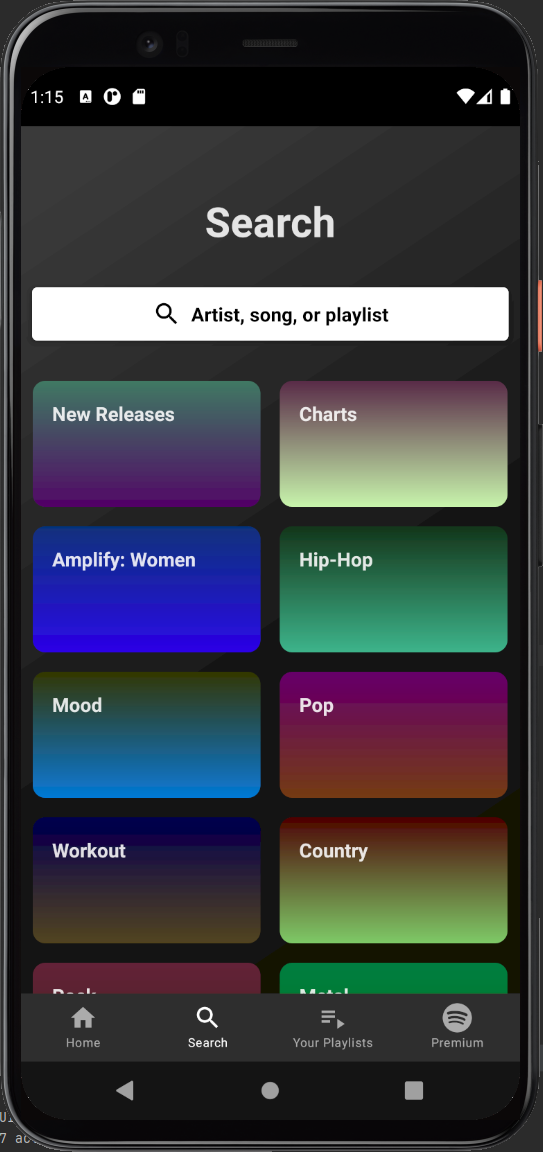
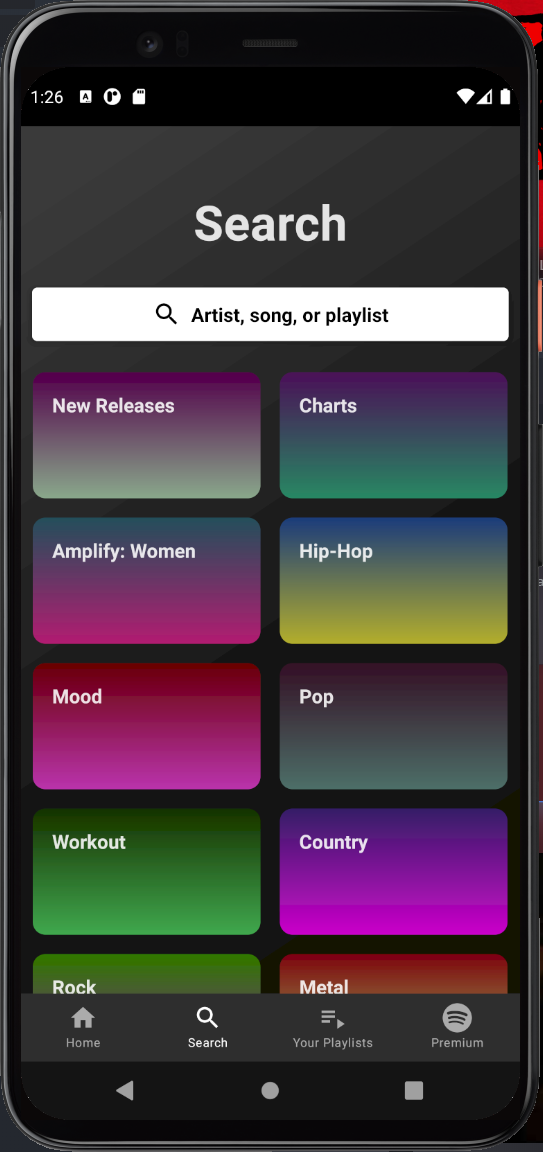
Improved search header text size

diff --git a/app/src/main/java/com/kobeissidev/jetpackcomposespotifyui/screen/search/sections/SearchHeaderSection.kt b/app/src/main/java/com/kobeissidev/jetpackcomposespotifyui/screen/search/sections/SearchHeaderSection.kt
@@ -21,6 +21,7 @@ import androidx.compose.ui.graphics.Color
 import androidx.compose.ui.res.stringResource
 import androidx.compose.ui.text.font.FontWeight
 import androidx.compose.ui.unit.dp
+import androidx.compose.ui.unit.sp
 import com.kobeissidev.jetpackcomposespotifyui.R
 import com.kobeissidev.jetpackcomposespotifyui.composable.CenteredTitleHeader
 
@@ -30,7 +31,7 @@ fun SearchHeaderSection() {
         verticalAlignment = Alignment.CenterVertically,
         modifier = Modifier
             .fillMaxWidth()
-            .height(200.dp)
+            .fillMaxHeight(0.25f)
             .padding(all = 1.dp)
     ) {
         Column(
@@ -40,16 +41,17 @@ fun SearchHeaderSection() {
         ) {
             CenteredTitleHeader(
                 id = R.string.search,
-                style = MaterialTheme.typography.h4.copy(fontWeight = FontWeight.Bold),
-                modifier = Modifier
-                    .fillMaxWidth()
-                    .padding(top = 32.dp)
+                style = MaterialTheme.typography.h4.copy(
+                    fontWeight = FontWeight.Bold,
+                    fontSize = 40.sp
+                ),
+                modifier = Modifier.padding(top = 36.dp)
             )
             SearchBar(
                 hint = stringResource(id = R.string.search_placeholder),
                 modifier = Modifier
                     .fillMaxWidth(0.96f)
-                    .padding(top = 32.dp)
+                    .padding(top = 28.dp)
             )
         }
     }
